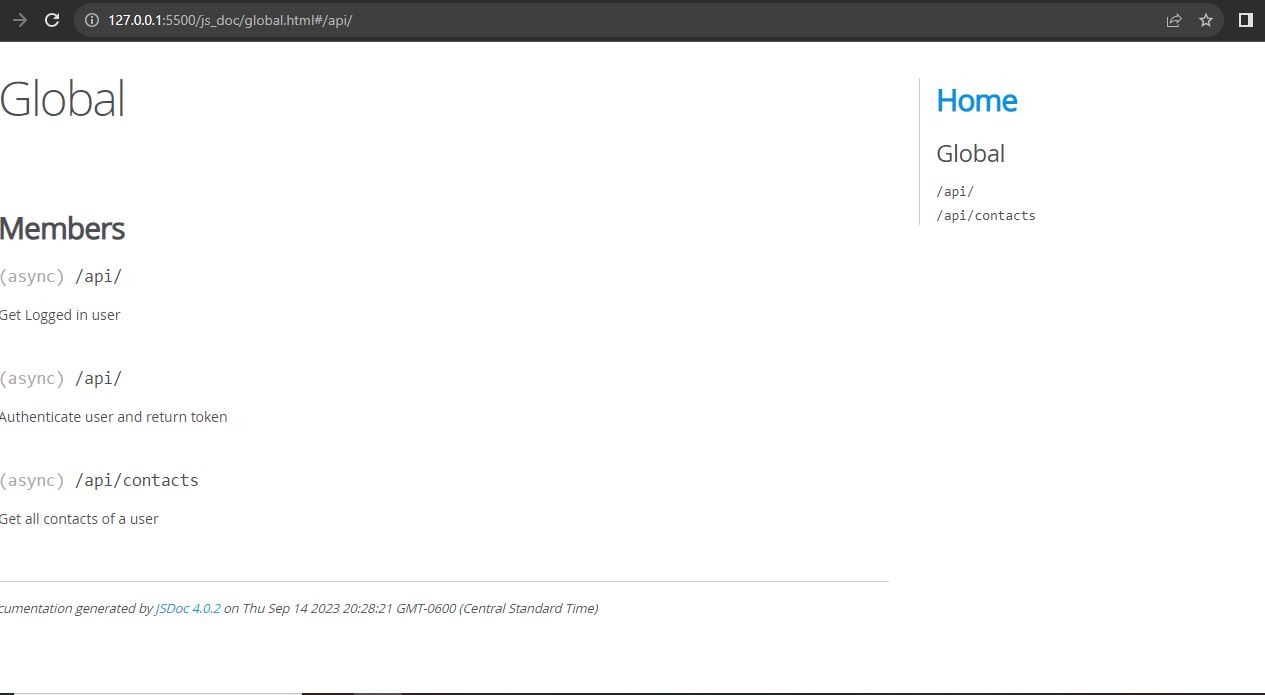
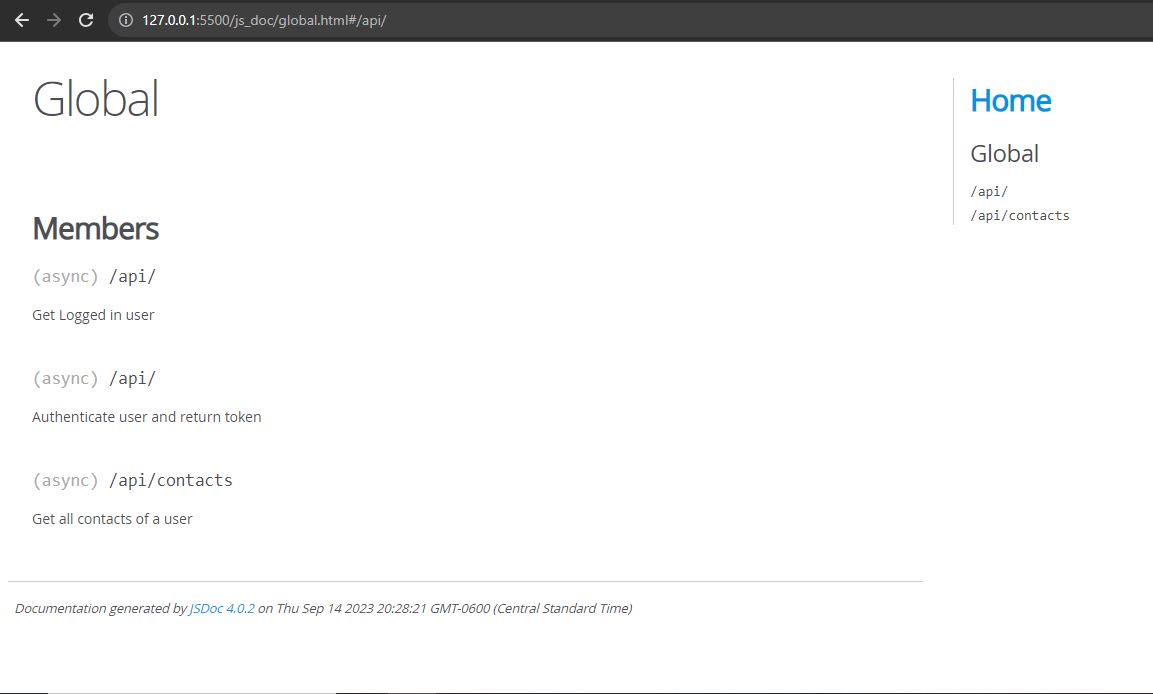
add jsdoc image, update readme

diff --git a/README.md b/README.md
@@ -1,2 +1,8 @@
-# KeeperContact2
+### KeeperContact2
 This app is a redo of brad traversy's contact keeper tutorial.
+
+### Sample output from jsdoc
+<img
+  src="./jsdoc.jpg"
+  alt="jsdoc"
+  style="margin: 0 auto; border-radius:10px"/>
